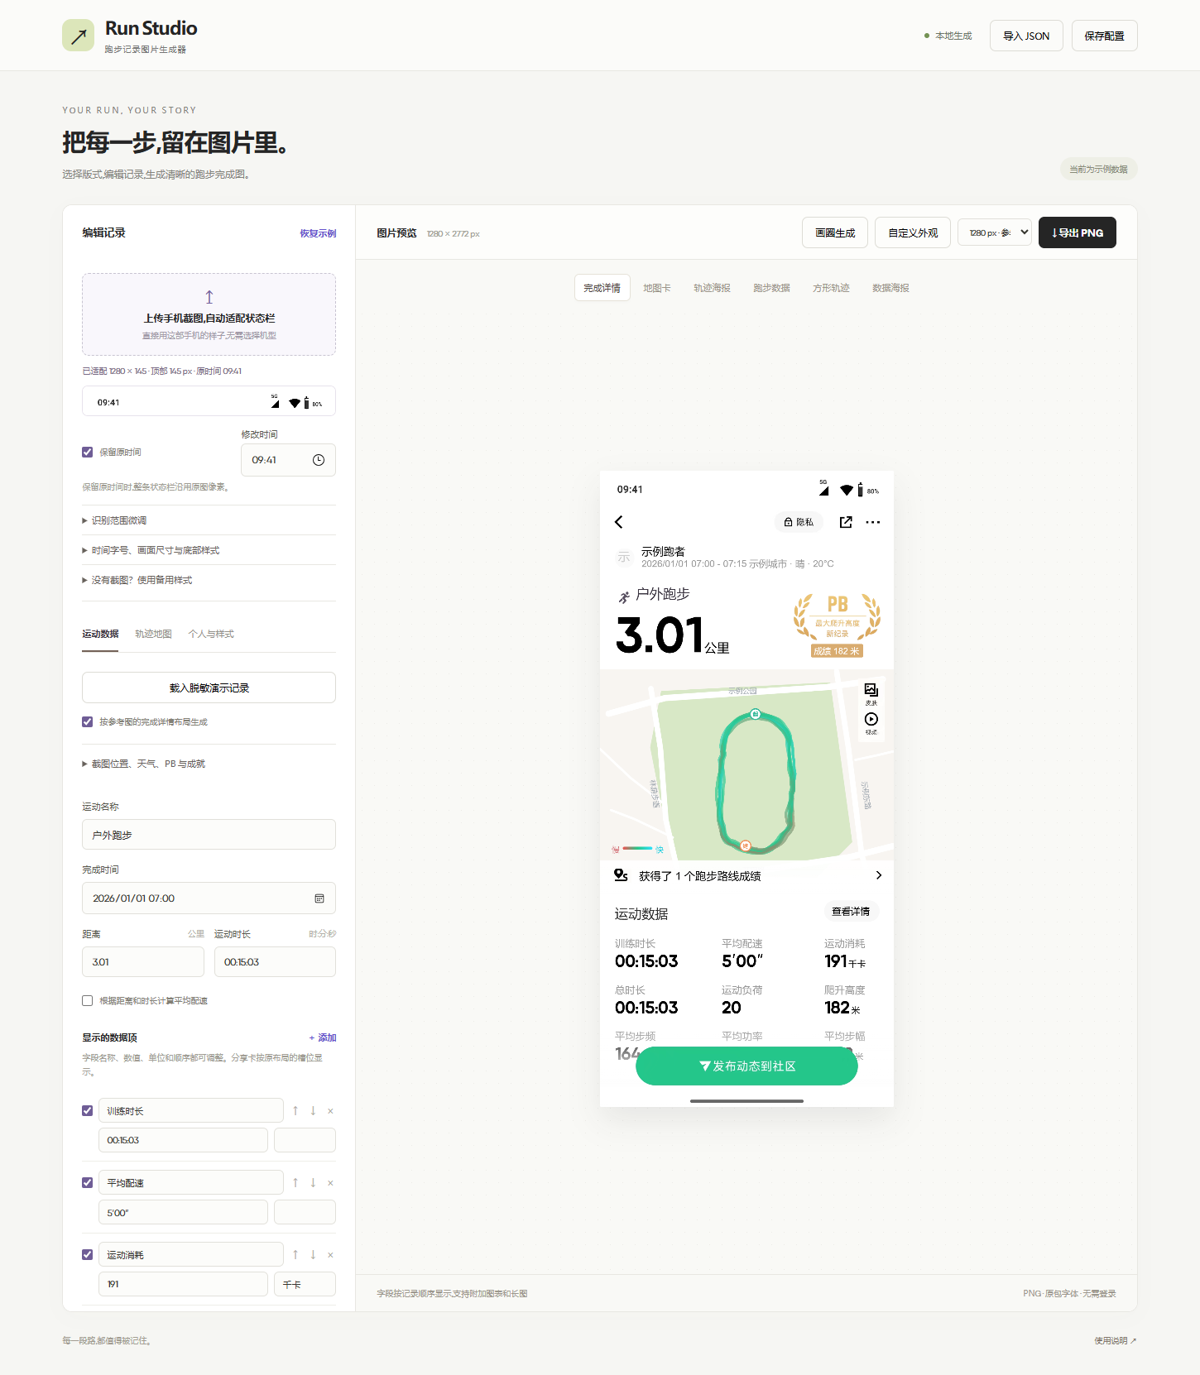
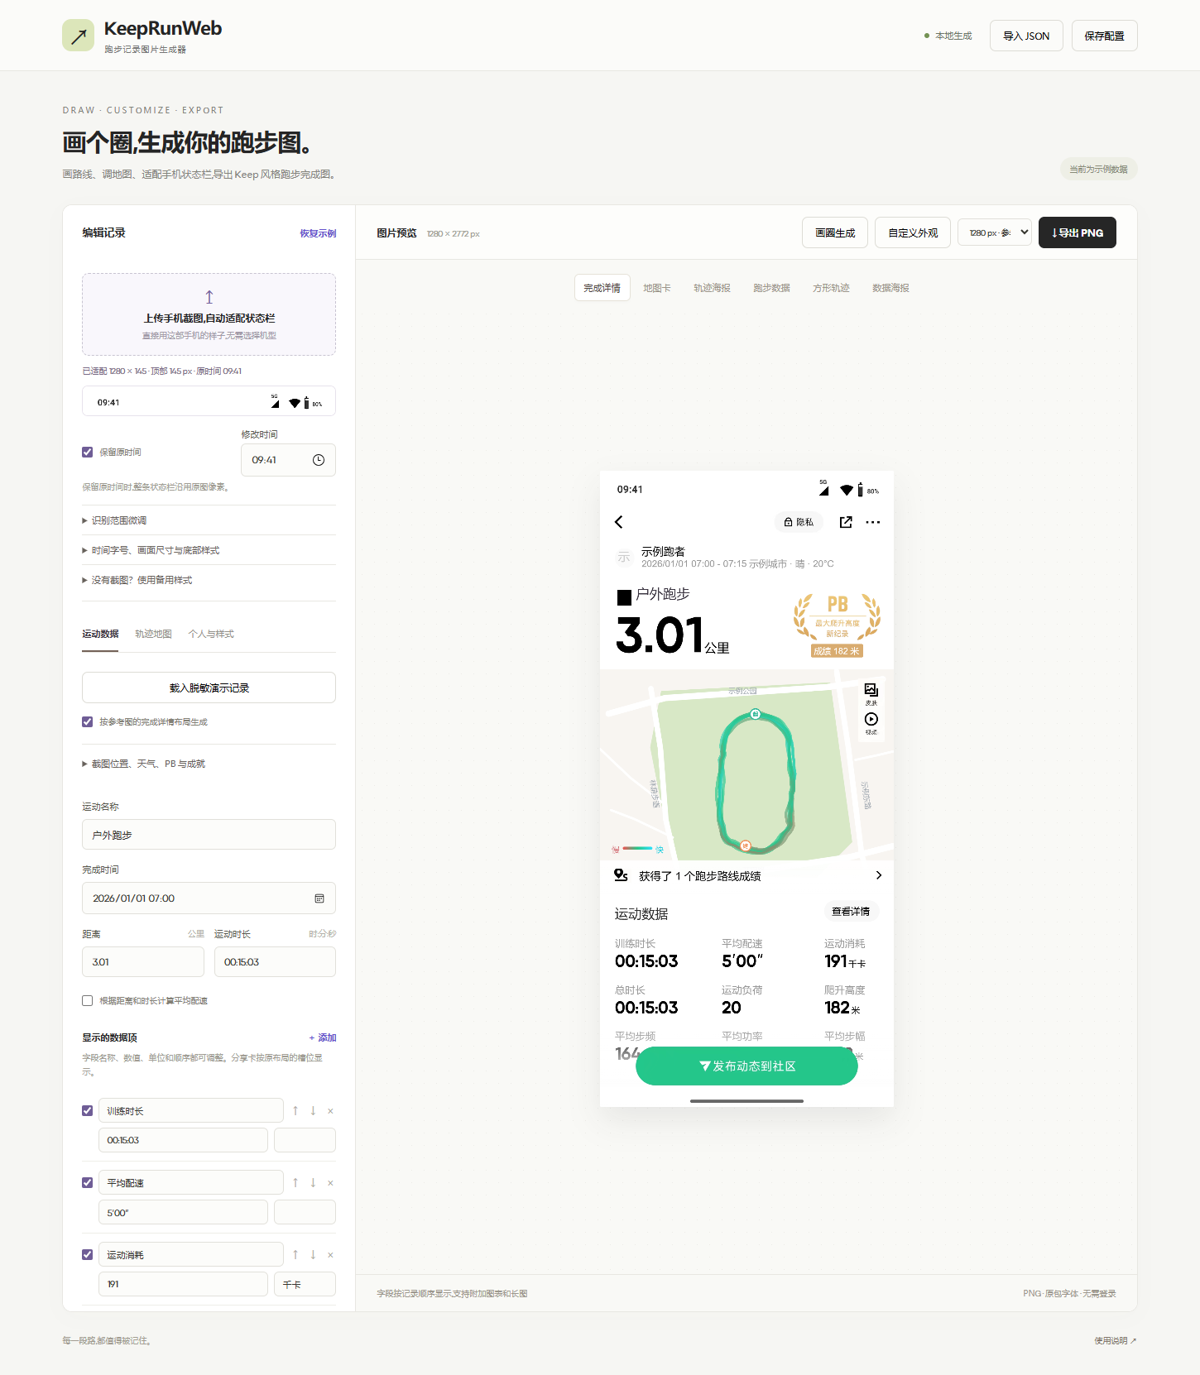
Rebrand as KeepRunWeb and add visual project introduction

Changed region(s): [[0.0308, 0.0611, 0.2775, 0.1527], [0.0925, 0.0, 0.185, 0.0305], [0.4933, 0.4276, 0.5242, 0.4582]]

diff --git a/guide.html b/guide.html
@@ -1,4 +1,4 @@
-<!doctype html><html lang="zh-CN"><head><meta charset="utf-8"><meta name="viewport" content="width=device-width,initial-scale=1"><title>Run Studio 使用说明</title><link rel="stylesheet" href="style.css"><style>article{max-width:740px;margin:45px auto;padding:25px;line-height:1.9}h2{font-size:19px;margin-top:30px}p,li{font-size:13px;color:#776f65}pre{padding:20px;background:#eeece6;border-radius:8px;overflow:auto;font-size:12px}</style></head><body><article><a href="./">← 返回生成器</a><h1 style="margin-top:25px">使用说明</h1><h2>上传手机截图</h2><p>在编辑区顶部上传手机完整截图或顶部裁图，网页会自动提取状态栏并采用截图比例，无需选择手机型号。下方可看到提取结果。时间、信号、电量及截图里已有的灵动岛沿用原图。</p><p>默认保留原时间。填写“修改时间”即可替换数字；已有数字复用截图，缺少的数字匹配近似字体。勾回“保留原时间”可恢复。没有识别出可编辑时间时，会保留原状态栏。裁切不合适可展开“识别范围微调”。分析在本地完成，保存配置会包含截图。</p><h2>生成图片</h2><p>选择版式，修改运动名称、距离、时长和数据项。右上角可以选择导出宽度。预览和 PNG 使用同一套绘制逻辑；导出的图片包含原包字体和选定的素材。</p><h2>字段与版式</h2><p>完成详情按顺序展示全部可见数据项，支持两列或三列。地图卡有三个数据槽，轨迹海报有三个，跑步数据卡有两个，方形轨迹显示公里数。多出的字段保留在配置中，切换到完成详情即可展示。地图卡和跑步数据卡中的公里数独立显示。</p><h2>导入与保存</h2><p>“保存配置”会下载 JSON，包含数据、图片和轨迹，可再次导入。也可导入 basicInfo + sportData.list / columnSize 格式，数据项使用 title、valueStr、unit。</p><pre>{
+<!doctype html><html lang="zh-CN"><head><meta charset="utf-8"><meta name="viewport" content="width=device-width,initial-scale=1"><title>KeepRunWeb 使用说明</title><link rel="stylesheet" href="style.css"><style>article{max-width:740px;margin:45px auto;padding:25px;line-height:1.9}h2{font-size:19px;margin-top:30px}p,li{font-size:13px;color:#776f65}pre{padding:20px;background:#eeece6;border-radius:8px;overflow:auto;font-size:12px}</style></head><body><article><a href="./">← 返回生成器</a><h1 style="margin-top:25px">使用说明</h1><h2>上传手机截图</h2><p>在编辑区顶部上传手机完整截图或顶部裁图，网页会自动提取状态栏并采用截图比例，无需选择手机型号。下方可看到提取结果。时间、信号、电量及截图里已有的灵动岛沿用原图。</p><p>默认保留原时间。填写“修改时间”即可替换数字；已有数字复用截图，缺少的数字匹配近似字体。勾回“保留原时间”可恢复。没有识别出可编辑时间时，会保留原状态栏。裁切不合适可展开“识别范围微调”。分析在本地完成，保存配置会包含截图。</p><h2>生成图片</h2><p>选择版式，修改运动名称、距离、时长和数据项。右上角可以选择导出宽度。预览和 PNG 使用同一套绘制逻辑；导出的图片包含原包字体和选定的素材。</p><h2>字段与版式</h2><p>完成详情按顺序展示全部可见数据项，支持两列或三列。地图卡有三个数据槽，轨迹海报有三个，跑步数据卡有两个，方形轨迹显示公里数。多出的字段保留在配置中，切换到完成详情即可展示。地图卡和跑步数据卡中的公里数独立显示。</p><h2>导入与保存</h2><p>“保存配置”会下载 JSON，包含数据、图片和轨迹，可再次导入。也可导入 basicInfo + sportData.list / columnSize 格式，数据项使用 title、valueStr、unit。</p><pre>{
   "basicInfo": {"distance": 5000},
   "sportData": {
     "columnSize": 3,

diff --git a/index.html b/index.html
@@ -1,13 +1,13 @@
 <!doctype html>
 <html lang="zh-CN">
-<head><meta charset="utf-8"><meta name="viewport" content="width=device-width,initial-scale=1"><title>Run Studio · 跑步记录图片生成器</title><link rel="icon" href="favicon.svg" type="image/svg+xml"><link rel="stylesheet" href="style.css"></head>
+<head><meta charset="utf-8"><meta name="viewport" content="width=device-width,initial-scale=1"><title>KeepRunWeb · Keep 风格跑步截图生成器</title><link rel="icon" href="favicon.svg" type="image/svg+xml"><link rel="stylesheet" href="style.css"></head>
 <body>
   <header class="topbar">
-    <a class="wordmark" href="./"><span class="brand-symbol">↗</span><span>Run Studio<small>跑步记录图片生成器</small></span></a>
+    <a class="wordmark" href="./"><span class="brand-symbol">↗</span><span>KeepRunWeb<small>跑步记录图片生成器</small></span></a>
     <div class="header-actions"><span class="local-badge"><i></i> 本地生成</span><button id="import-json" class="button subtle">导入 JSON</button><button id="save-json" class="button subtle">保存配置</button></div>
   </header>
   <main>
-    <section class="page-heading"><div><p class="eyebrow">YOUR RUN, YOUR STORY</p><h1>把每一步，留在图片里。</h1><p class="intro">选择版式，编辑记录，生成清晰的跑步完成图。</p></div><div class="sample-badge" id="sample-badge">当前为示例数据</div></section>
+    <section class="page-heading"><div><p class="eyebrow">DRAW · CUSTOMIZE · EXPORT</p><h1>画个圈，生成你的跑步图。</h1><p class="intro">画路线、调地图、适配手机状态栏，导出 Keep 风格跑步完成图。</p></div><div class="sample-badge" id="sample-badge">当前为示例数据</div></section>
     <div class="studio">
       <aside class="editor">
         <div class="editor-heading"><span>编辑记录</span><button id="reset" class="text-button">恢复示例</button></div>

diff --git a/README.md b/README.md
@@ -1,46 +1,101 @@
-# Run Studio
+<div align="center">
 
-可自定义地图、跑步路线与手机状态栏的图片编辑器。画一个大致的圈，生成有细节变化的多圈轨迹，再调整数据和外观，导出 PNG。
+<img src="docs/hero.svg" alt="KeepRunWeb — Keep 风格跑步截图生成器" width="100%">
 
-![Run Studio 编辑界面](docs/editor.png)
+**画一个圈，生成自然多圈路线；上传一张截图，沿用手机状态栏。**
 
-## 功能
+Keep-style running screenshot generator · Route editor · Phone status bar adaptation
 
-- **一笔画圈**：设置目标距离与配速，自动细化形状、圈数和沿途颜色；支持节点编辑、撤销与重做。
-- **路线外观**：粗细、深浅、透明度、分段配速色、描边、起终点与公里标记。
-- **地图自定义**：上传图片、Keep 风格矢量地图、高德、OSM、纯色背景；可编辑地图支持字号、道路、背景、绿地与方向箭头调整。
-- **手机适配**：上传截图提取状态栏，保留截图中的图标和灵动岛；可修改时间、画面尺寸、底部留白与手势条。
-- **记录与导出**：数据项名称、数值、单位、排列和可见性；六种版式，PNG 导出，完整配置 JSON 保存与导入。
-- **地点与轨迹**：搜索地点或输入坐标，导入 GPX、CSV、GeoJSON。
+[![Release](https://img.shields.io/github/v/release/2578004027-lgtm/KeepRunWeb?style=flat-square&color=20bd8c)](https://github.com/2578004027-lgtm/KeepRunWeb/releases/latest)
+[![Node.js](https://img.shields.io/badge/Node.js-20%2B-43853d?style=flat-square)](#快速开始)
+[![Platform](https://img.shields.io/badge/Windows%20%7C%20macOS%20%7C%20Linux-Web-7060b8?style=flat-square)](#快速开始)
+[![Stars](https://img.shields.io/github/stars/2578004027-lgtm/KeepRunWeb?style=flat-square)](https://github.com/2578004027-lgtm/KeepRunWeb/stargazers)
 
-## 本地运行
+[下载使用](https://github.com/2578004027-lgtm/KeepRunWeb/releases/latest) · [效果演示](#效果演示) · [功能介绍](#功能介绍) · [反馈问题](https://github.com/2578004027-lgtm/KeepRunWeb/issues) · [English](#english)
 
-需要 Node.js 20 或更新版本。运行应用不需要安装 npm 依赖：
+</div>
 
-```sh
-git clone https://github.com/2578004027-lgtm/run-studio.git
-cd run-studio
+## 这是什么？
+
+**KeepRunWeb 是一个在浏览器里运行的 Keep 风格跑步截图生成器。** 支持手绘路线、地图编辑、手机状态栏适配和运动数据自定义，把预览中的效果直接导出为 PNG。
+
+一笔画出大致形状，自动细化为有局部偏移、透明叠加和配速变化的多圈路线；手机型号不同，可以直接上传自己的截图提取状态栏，再调整时间和画面尺寸。
+
+## 效果演示
+
+### 一笔画圈 → 自动细化 → 调整路线深浅
+
+![实际操作：画圈生成与路线外观调整](docs/route-demo.gif)
+
+<details>
+<summary><b>展开查看编辑器和导出的完成图</b></summary>
+
+![KeepRunWeb 网页编辑器](docs/editor.png)
+
+<p align="center"><img src="docs/demo-export.png" alt="使用虚构资料生成的跑步完成图" width="360"></p>
+
+</details>
+
+演示中的姓名、城市、路名和轨迹均为虚构数据。
+
+## 功能介绍
+
+| 功能 | 可以做什么 |
+| --- | --- |
+| 🏃 一笔画圈 | 设置距离和配速，细化圈线、圈数、局部偏移及沿途颜色；距离与用时联动 |
+| ✏ 路线编辑 | 画线、拖动节点、插点、删点、分段涂配速、撤销与重做 |
+| 🎨 路线外观 | 颜色、深浅、透明度、粗细、描边、起终点和公里标记 |
+| 🗺 地图自定义 | Keep 风格矢量地图、高德、OSM、上传底图；可编辑地图支持字号、道路、绿地、背景与箭头调整 |
+| 📱 状态栏适配 | 从截图提取时间、信号、电量及截图中已有的灵动岛；支持修改时间与裁切范围 |
+| 🖼 手机画面 | 自定义像素尺寸、时间字号、底部留白和手势条；提供安卓、刘海屏、灵动岛备用样式 |
+| 📊 运动数据 | 自定义距离、用时、配速和数据项；调整名称、单位、排列与可见性 |
+| 📍 地点与文件 | 搜索地点或输入坐标；导入 GPX、CSV、GeoJSON |
+| 💾 保存与导出 | 六种版式、PNG 图片、完整配置 JSON 保存与恢复 |
+
+**默认画圈无需联网路网。** 主动选择“沿道路贴合”时才请求道路数据；在线地图和地点搜索需要网络。
+
+## 快速开始
+
+需要安装 [Node.js 20+](https://nodejs.org/)。应用运行本身没有第三方 npm 依赖。
+
+### 方式一：下载即用
+
+1. 前往 [Releases](https://github.com/2578004027-lgtm/KeepRunWeb/releases/latest)，下载 `KeepRunWeb-v1.0.1.zip` 并解压。
+2. Windows：进入 `web` 文件夹，双击 `start.cmd`。
+3. macOS / Linux：进入 `web` 文件夹，执行 `node server.mjs`。
+4. 浏览器打开 **<http://127.0.0.1:8766/>**。
+
+### 方式二：从源码运行
+
+```bash
+git clone https://github.com/2578004027-lgtm/KeepRunWeb.git
+cd KeepRunWeb
 node server.mjs
 ```
 
-打开 <http://127.0.0.1:8766/>。Windows 也可双击 `start.cmd`。
+服务默认只监听本机地址。此仓库提供可本地运行的源码和发布包；完整地图、地点搜索依赖 Node.js 接口，不能只上传到 GitHub Pages 运行。
 
-这是包含 Node.js 地图代理接口的应用；GitHub 仓库用于获取源码，GitHub Pages 静态托管不能提供完整地图与搜索接口。
+## 使用方法
 
-## 使用
+1. **选数据**：修改距离、时长和指标，或载入内置演示记录。
+2. **画路线**：点击“画圈生成”，选地点或底图，按住画一个大致闭合圈，松手生成。
+3. **调外观**：点击“自定义外观”，调整路线深浅、粗细、配速颜色；选择可编辑地图后还能独立修改地图文字和配色。
+4. **适配手机**：上传截图提取状态栏。需要换时间时取消“保留原时间”，再调整字号、画面宽高和底部样式。
+5. **保存结果**：点击“导出 PNG”；“保存配置”可把图片、数据和路线一起保存为 JSON，下次继续编辑。
 
-1. 默认载入“示例跑者”的虚构记录。点击“画圈生成”，在示例底图上画圈并应用。
-2. 点击“自定义外观”修改路线；切换可编辑地图后，还能单独修改地图文字、道路和配色。
-3. 上传手机截图，按需要修改时间，或展开“时间字号、画面尺寸与底部样式”。
-4. 导出 PNG；“保存配置”可保留所有编辑，下次导入继续。
+## 常见问题
 
-默认地图、路名、路线和个人资料均为演示数据，不对应真实用户地址。切换在线地图后，显示所选地点的公开地图数据。默认画圈不依赖联网道路贴合服务；主动选择道路贴合时需要外部路网可用。
+**能导出 FIT 文件吗？** 目前导出 PNG 和编辑配置 JSON，支持导入 GPX / CSV / GeoJSON，没有 FIT 导出功能。
 
-上传截图在浏览器本地分析，本项目未提供截图上传接口。保存的 JSON 会包含所选图片与记录。在线地图、地点搜索会向对应地图服务请求查询内容或视野区域。
+**能适配所有手机吗？** 优先使用上传截图中的状态栏像素，另有备用样式。特殊字体或复杂背景可能需要微调；网页不保证每部手机逐像素一致。
 
-## 验证
+**为什么图片地图的文字不能单独改？** 图片中的文字已经合成。切换到“Keep 风格 · 可编辑地图”，即可分别调整字号、颜色、道路和箭头。
 
-```sh
+**截图会上传吗？** 截图在浏览器本地分析，项目没有截图上传接口。配置 JSON 会包含所选图片和记录；地图与地点搜索会向相应服务发送视野或查询内容。
+
+## 开发与反馈
+
+```bash
 npm ci
 npm run check
 npm test
@@ -48,12 +103,23 @@ npx playwright install chromium
 npm run test:browser
 ```
 
-浏览器检查会自动启动本地临时服务，验证演示记录、画圈、自定义尺寸、PNG 和 JSON 导出。已有 Edge 的 Windows 环境可设置 `BROWSER_CHANNEL=msedge` 使用 Edge。
+浏览器检查会自动启动临时本地服务，检查演示数据、画圈、尺寸设置、PNG 和 JSON 导出。Windows 可设置 `BROWSER_CHANNEL=msedge` 使用已安装的 Edge。
 
-## 说明与来源
+欢迎提交 [Issue](https://github.com/2578004027-lgtm/KeepRunWeb/issues) 或 PR。参与方式见 [CONTRIBUTING.md](CONTRIBUTING.md)。如果这个工具对你有用，欢迎点一个 **Star ⭐**，方便以后找到它。
 
-本项目为独立实现，非 Keep 官方应用。页面布局和部分视觉素材来自界面研究，跨手机逐像素一致并非目标；地图与字体可继续自行调整。
+## 相关项目与素材来源
 
-源码未包含研究目录、原始用户截图、账号标识、原地点资料、SDK 客户端密钥或本机路径。随库预览由脱敏演示数据重新生成。
+- [KeepTrack](https://github.com/IAMAI-Dev/KeepTrack)：生成操场跑步 FIT 轨迹的 Windows 工具。本项目参考了它清晰的功能介绍与使用文档结构；当前实现面向网页图片编辑，没有复制其 FIT 生成实现。
+- 本项目为独立工具，非 Keep 官方应用。Keep 名称、图标和部分参考素材归原权利人；第三方字体与图标的来源及已有许可见 [third-party/README.md](third-party/README.md)。
+- 原创代码部分暂未授予额外的开源许可证。公开源码与第三方素材的许可范围分别说明，不将第三方素材视为本项目原创。
 
-项目原创部分暂未授予额外的开源许可证。第三方代码、字体、图标和参考素材不属于该声明的授权范围；来源与已有许可见 [third-party/README.md](third-party/README.md)。
+## English
+
+**KeepRunWeb** is a browser-based, Keep-style running screenshot editor. Draw a rough loop, generate varied laps, customize the map and pace colors, adapt a phone status bar from a screenshot, and export a PNG.
+
+- Local Node.js server; no runtime npm dependencies.
+- Freehand route editing, GPX / CSV / GeoJSON import, configurable maps and phone dimensions.
+- PNG export and full JSON configuration roundtrip. FIT export is not implemented.
+- Demo identities and locations are fictional. Status-bar images are processed in the browser.
+
+Install Node.js 20+, clone this repository, run `node server.mjs`, and open `http://127.0.0.1:8766/`.

diff --git a/CONTRIBUTING.md b/CONTRIBUTING.md
@@ -1,0 +1,16 @@
+# 参与 KeepRunWeb
+
+欢迎改进地图显示、状态栏识别、路线编辑和使用文档。
+
+## 反馈问题
+
+请提供系统、浏览器版本、操作步骤、预期结果与实际结果。涉及截图时使用演示资料，或遮挡个人姓名、账号、地址和精确定位；不要提交含私人图片的完整配置 JSON。
+
+## 提交修改
+
+1. Fork 仓库，新建分支并保持修改集中。
+2. 运行 `npm ci`、`npm run check`、`npm test`。
+3. 修改交互或导出时，再运行 `npm run test:browser`，并提供使用虚构资料生成的效果图。
+4. PR 说明解决的问题、最终行为和验证结果。新增第三方素材请一并记录来源与许可。
+
+不要提交 `verification/`、本机路径、上传图片、密钥或个人运动记录。公开示例使用规范化坐标和虚构资料。
